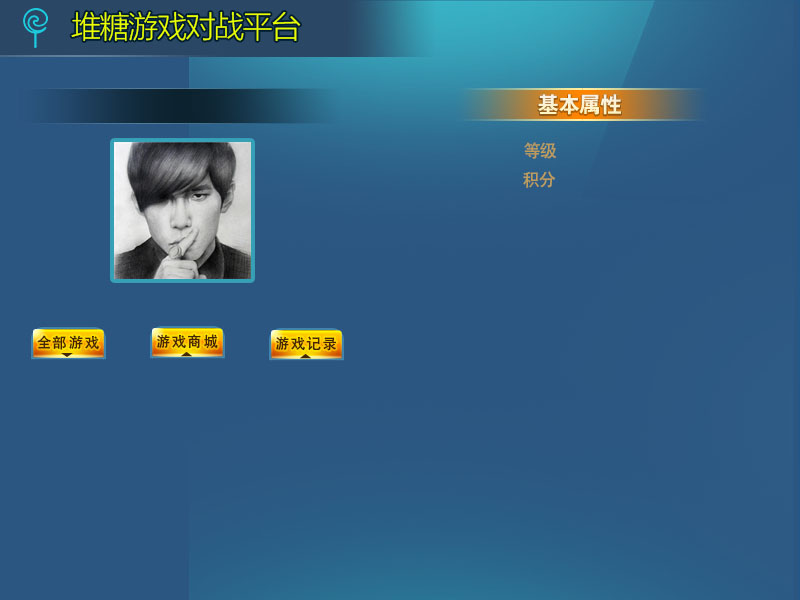
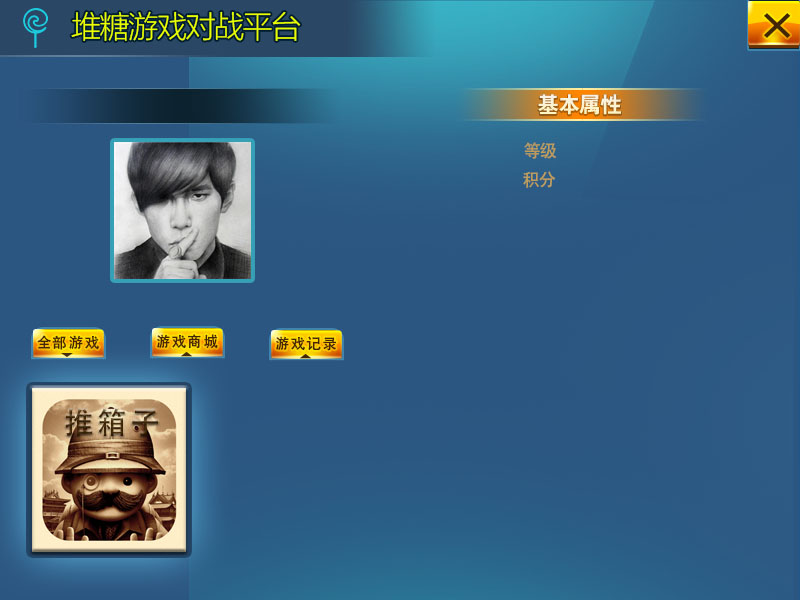
修复主面板点击bug，修复游戏记录窗口直接退出程序bug

Changed region(s): [[0.0, 0.6, 0.2812, 0.96], [0.9062, 0.0, 1.0, 0.09]]

diff --git a/DGP/src/a/view/GameMain.java b/DGP/src/a/view/GameMain.java
@@ -53,30 +53,30 @@ public class GameMain extends JFrame {
         this.add(bg);
 	}
 	public void moreInit() {
-		close=new JLabel(new ImageIcon("img/close.png"));
-		close.setLocation(745, 0);
-		close.setSize(54,53);
-		
-		bg.add(close);
-		close.addMouseListener(new MouseAdapter(){
-			public void mousePressed(MouseEvent e) {
-				int n=JOptionPane.showConfirmDialog(null, "您确定要退出游戏平台吗","提示信息",JOptionPane.YES_NO_OPTION);
-				if(n==0) {
-					System.exit(0);
-				}
-			};
-		});
-		
-		game1=new JLabel(new ImageIcon("img/game1.png"));
-		game1.setSize(232,256);
-		game1.setLocation(0, 335);
-		bg.add(game1);
-		
-		game1.addMouseListener(new MouseAdapter(){
-			public void mousePressed(MouseEvent e) {
-				StartAPP.start();
-			};
-		});
+//		close=new JLabel(new ImageIcon("img/close.png"));
+//		close.setLocation(745, 0);
+//		close.setSize(54,53);
+//		
+//		bg.add(close);
+//		close.addMouseListener(new MouseAdapter(){
+//			public void mousePressed(MouseEvent e) {
+//				int n=JOptionPane.showConfirmDialog(getThis(), "您确定要退出游戏平台吗","提示信息",JOptionPane.YES_NO_OPTION);
+//				if(n==0) {
+//					System.exit(0);
+//				}
+//			};
+//		});
+//		
+//		game1=new JLabel(new ImageIcon("img/game1.png"));
+//		game1.setSize(232,256);
+//		game1.setLocation(0, 335);
+//		bg.add(game1);
+//		
+//		game1.addMouseListener(new MouseAdapter(){
+//			public void mousePressed(MouseEvent e) {
+//				StartAPP.start();
+//			};
+//		});
 		
 		//用户名label
 		JLabel username=new JLabel(userservice.getUserNickName(),JLabel.CENTER);
@@ -149,13 +149,22 @@ public class GameMain extends JFrame {
 				int x=e.getX();
 				int y=e.getY();
 				if(x>150&&x<225 && y>328 && y<360) {
-					System.out.println("点中了");
+					new Shop();
 				}else if(x>226&&x<336 && y>328 && y<360) {
 					new HistoryWindow(UserInfoDao.getUser().getAccount());
+				}else if(x>747&&x<800 && y>0 && y<50) {
+					int n=JOptionPane.showConfirmDialog(getThis(), "您确定要退出游戏平台吗","提示信息",JOptionPane.YES_NO_OPTION);
+					if(n==0) {
+						System.exit(0);
+					}
+				}else if(x>25&&x<195 && y>383 && y<558) {
+					StartAPP.start();
 				}
 			}
 			
 		});
 	}
-	
+	public GameMain getThis() {
+		return this;
+	}
 }

diff --git a/DGP/src/a/service/MailService.java b/DGP/src/a/service/MailService.java
@@ -7,8 +7,8 @@ import a.mail.MailUtils;
 
 public class MailService {
 	public static void register(String email,String nickname) {
-		String sub="尊敬的"+nickname+"你好，欢迎加入堆糖游戏平台这个大家庭";
-		String content="堆糖游戏平台（Duitang Game Platform）是虹猫1703班三人行小组的java GUI初级项目。该项目是一个游戏平台，提供各种好玩简单方便的游戏，玩家可以通过玩游戏获得积分，然后在商城购买道具。 Creating a new branch is quick AND simple.";
+		String sub="你好，尊敬的堆糖游戏玩家"+nickname+"，欢迎加入堆糖游戏平台这个大家庭";
+		String content="堆糖游戏平台（Duitang Game Platform）是虹猫1703班三人行小组的java GUI初级项目。该项目是一个游戏平台，提供各种好玩简单方便的游戏，玩家可以通过玩游戏获得积分，然后在商城购买道具。";
 		try {
 			MailUtils.sendMail(email, sub, content);
 		} catch (AddressException e) {

diff --git a/DGP/src/a/view/HistoryWindow.java b/DGP/src/a/view/HistoryWindow.java
@@ -103,7 +103,7 @@ public class HistoryWindow extends JFrame {
 			@Override
 			public void actionPerformed(ActionEvent e) {
 				//退出程序
-				System.exit(0);
+				close();
 			}
 		});
 		//初始化内容面板
@@ -148,7 +148,9 @@ public class HistoryWindow extends JFrame {
 		contentPanel.add(JP);
 		this.setVisible(true);
 	}
-	
+	public void close(){
+		this.dispose();
+	}
 	
 	
 }
